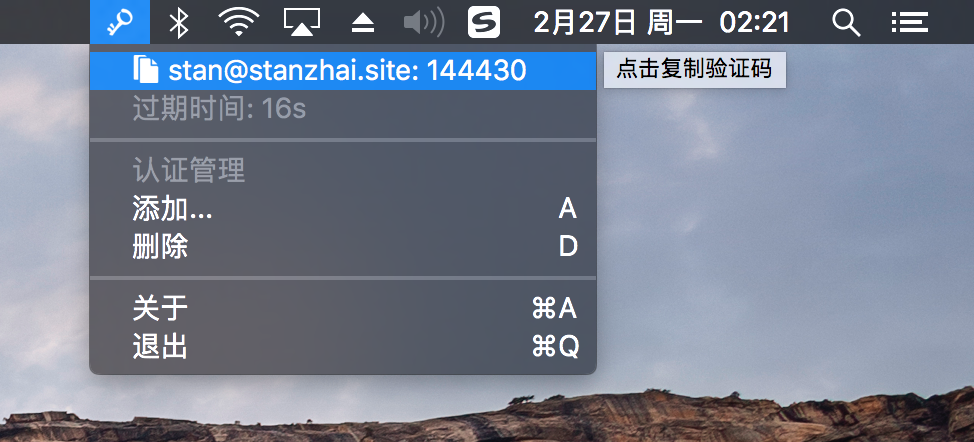
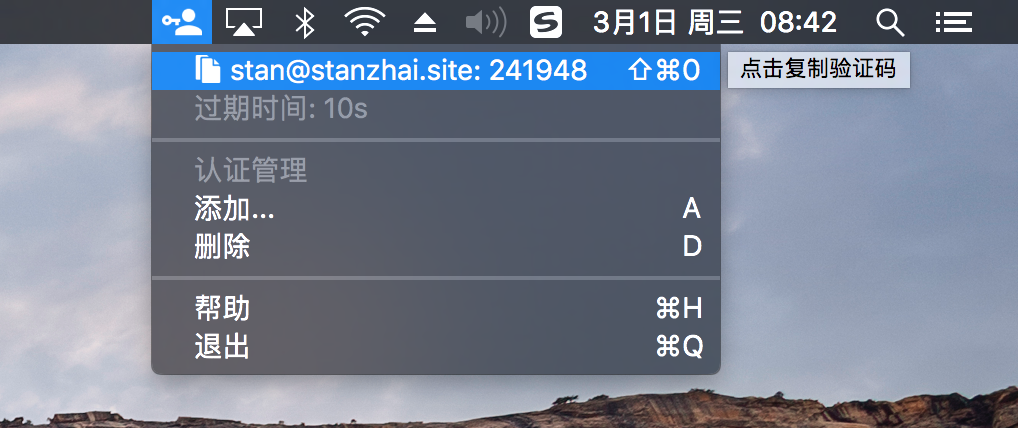
add feature

diff --git a/README.md b/README.md
@@ -8,6 +8,12 @@ A native implementation of Google Authenticator for Mac based on Swift3.
 
 ![add](screenshot/add-window.png)
 
+# Features
+
+- Recognize OTPAuth URL from QRCode
+- Click a auth-menu to copy the verification code
+- Use a global hot key(`Shift+Cmd+[0-9]`) to direct fill out verification code
+
 # Todo
 
 - Support auto startup with system.
